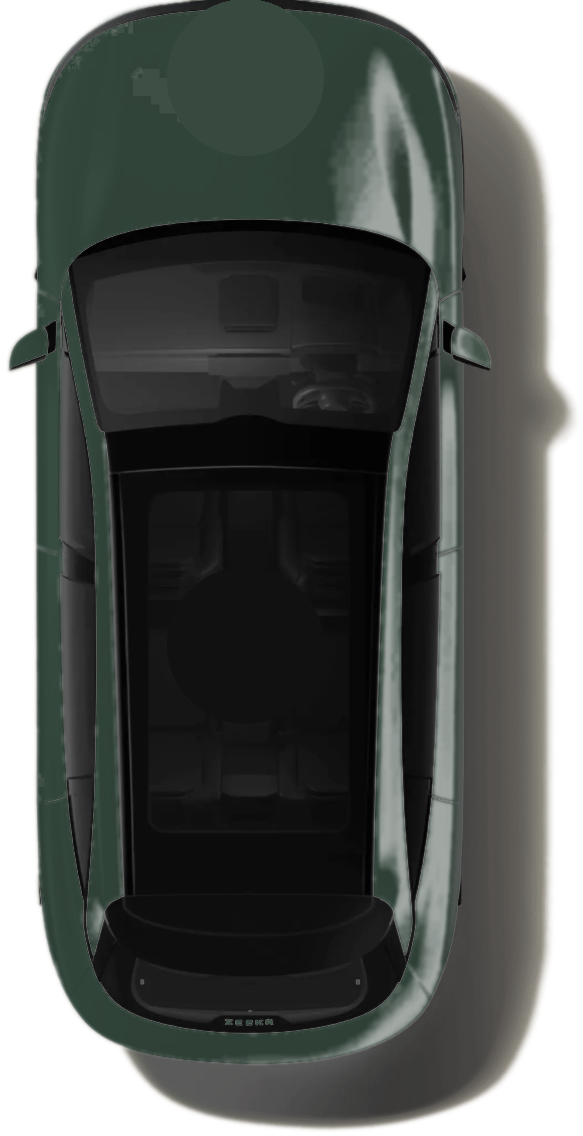
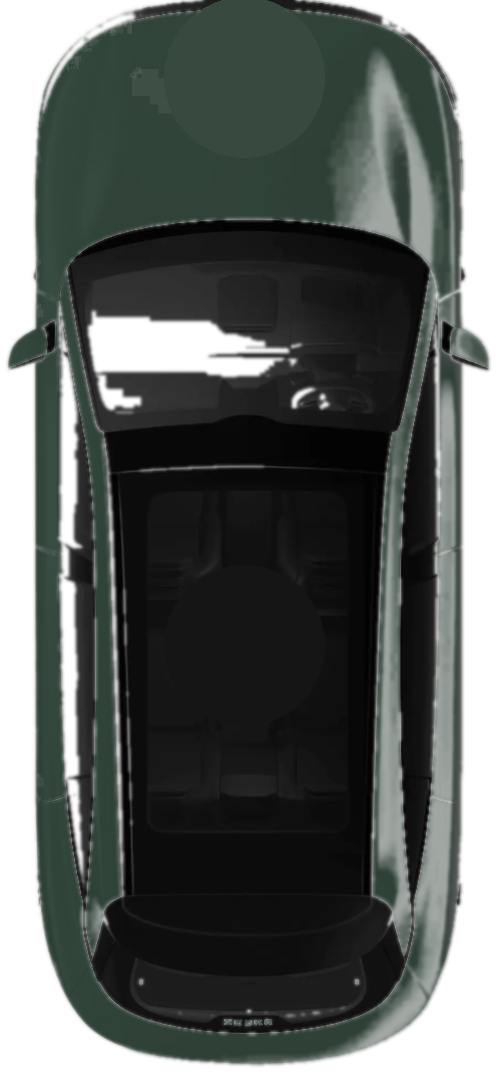
Fix door overlay coords and remove car shadow from image

diff --git a/static/index.html b/static/index.html
@@ -916,44 +916,44 @@ function renderDoors(d) {
   document.getElementById('doorDiagram').innerHTML = `
   <div style="position:relative;display:block">
     <img src="/7x_green.png" style="width:100%;display:block;opacity:0.92"/>
-    <svg viewBox="0 0 583 1136" style="position:absolute;top:0;left:0;width:100%;height:100%;overflow:visible">
+    <svg viewBox="0 0 496 1072" style="position:absolute;top:0;left:0;width:100%;height:100%;overflow:visible">
       <!-- HOOD overlay -->
-      <path d="M155,35 Q290,15 435,35 L440,200 Q290,180 150,200 Z"
+      <path d="M132,33 Q248,14 370,33 L374,189 Q248,170 128,189 Z"
             fill="${hood.fill}" stroke="${hood.stroke}" stroke-width="3"/>
       <!-- FL door -->
-      <path d="M42,205 L148,198 L142,545 L38,540 Z"
+      <path d="M36,194 L126,187 L121,515 L32,510 Z"
             fill="${fl.fill}" stroke="${fl.stroke}" stroke-width="3"/>
       <!-- FR door -->
-      <path d="M541,205 L435,198 L440,545 L545,540 Z"
+      <path d="M460,194 L370,187 L374,515 L464,510 Z"
             fill="${fr.fill}" stroke="${fr.stroke}" stroke-width="3"/>
       <!-- RL door -->
-      <path d="M39,543 L143,548 L140,838 L42,832 Z"
+      <path d="M33,513 L122,518 L119,791 L36,786 Z"
             fill="${rl.fill}" stroke="${rl.stroke}" stroke-width="3"/>
       <!-- RR door -->
-      <path d="M544,543 L439,548 L442,838 L547,832 Z"
+      <path d="M463,513 L374,518 L376,791 L466,786 Z"
             fill="${rr.fill}" stroke="${rr.stroke}" stroke-width="3"/>
       <!-- BOOT overlay -->
-      <path d="M150,840 Q290,826 442,840 L438,1058 Q290,1075 152,1058 Z"
+      <path d="M128,793 Q248,780 376,793 L373,999 Q248,1014 129,999 Z"
             fill="${boot.fill}" stroke="${boot.stroke}" stroke-width="3"/>
 
       <!-- Labels: hood -->
-      <text x="292" y="108" text-anchor="middle" font-size="40" fill="${hood.tc}" font-family="system-ui,sans-serif" font-weight="700">Hood</text>
-      <text x="292" y="152" text-anchor="middle" font-size="34" fill="${hood.tc}" font-family="system-ui,sans-serif">${hood.label}</text>
+      <text x="248" y="102" text-anchor="middle" font-size="38" fill="${hood.tc}" font-family="system-ui,sans-serif" font-weight="700">Hood</text>
+      <text x="248" y="143" text-anchor="middle" font-size="32" fill="${hood.tc}" font-family="system-ui,sans-serif">${hood.label}</text>
       <!-- FL -->
-      <text x="92" y="355" text-anchor="middle" font-size="40" fill="${fl.tc}" font-family="system-ui,sans-serif" font-weight="700">FL</text>
-      <text x="92" y="400" text-anchor="middle" font-size="34" fill="${fl.tc}" font-family="system-ui,sans-serif">${fl.label}</text>
+      <text x="78"  y="335" text-anchor="middle" font-size="38" fill="${fl.tc}"   font-family="system-ui,sans-serif" font-weight="700">FL</text>
+      <text x="78"  y="378" text-anchor="middle" font-size="32" fill="${fl.tc}"   font-family="system-ui,sans-serif">${fl.label}</text>
       <!-- FR -->
-      <text x="492" y="355" text-anchor="middle" font-size="40" fill="${fr.tc}" font-family="system-ui,sans-serif" font-weight="700">FR</text>
-      <text x="492" y="400" text-anchor="middle" font-size="34" fill="${fr.tc}" font-family="system-ui,sans-serif">${fr.label}</text>
+      <text x="418" y="335" text-anchor="middle" font-size="38" fill="${fr.tc}"   font-family="system-ui,sans-serif" font-weight="700">FR</text>
+      <text x="418" y="378" text-anchor="middle" font-size="32" fill="${fr.tc}"   font-family="system-ui,sans-serif">${fr.label}</text>
       <!-- RL -->
-      <text x="92" y="665" text-anchor="middle" font-size="40" fill="${rl.tc}" font-family="system-ui,sans-serif" font-weight="700">RL</text>
-      <text x="92" y="710" text-anchor="middle" font-size="34" fill="${rl.tc}" font-family="system-ui,sans-serif">${rl.label}</text>
+      <text x="78"  y="628" text-anchor="middle" font-size="38" fill="${rl.tc}"   font-family="system-ui,sans-serif" font-weight="700">RL</text>
+      <text x="78"  y="671" text-anchor="middle" font-size="32" fill="${rl.tc}"   font-family="system-ui,sans-serif">${rl.label}</text>
       <!-- RR -->
-      <text x="492" y="665" text-anchor="middle" font-size="40" fill="${rr.tc}" font-family="system-ui,sans-serif" font-weight="700">RR</text>
-      <text x="492" y="710" text-anchor="middle" font-size="34" fill="${rr.tc}" font-family="system-ui,sans-serif">${rr.label}</text>
+      <text x="418" y="628" text-anchor="middle" font-size="38" fill="${rr.tc}"   font-family="system-ui,sans-serif" font-weight="700">RR</text>
+      <text x="418" y="671" text-anchor="middle" font-size="32" fill="${rr.tc}"   font-family="system-ui,sans-serif">${rr.label}</text>
       <!-- Boot -->
-      <text x="292" y="938" text-anchor="middle" font-size="40" fill="${boot.tc}" font-family="system-ui,sans-serif" font-weight="700">Boot</text>
-      <text x="292" y="982" text-anchor="middle" font-size="34" fill="${boot.tc}" font-family="system-ui,sans-serif">${boot.label}</text>
+      <text x="248" y="885" text-anchor="middle" font-size="38" fill="${boot.tc}" font-family="system-ui,sans-serif" font-weight="700">Boot</text>
+      <text x="248" y="927" text-anchor="middle" font-size="32" fill="${boot.tc}" font-family="system-ui,sans-serif">${boot.label}</text>
     </svg>
   </div>`;
 